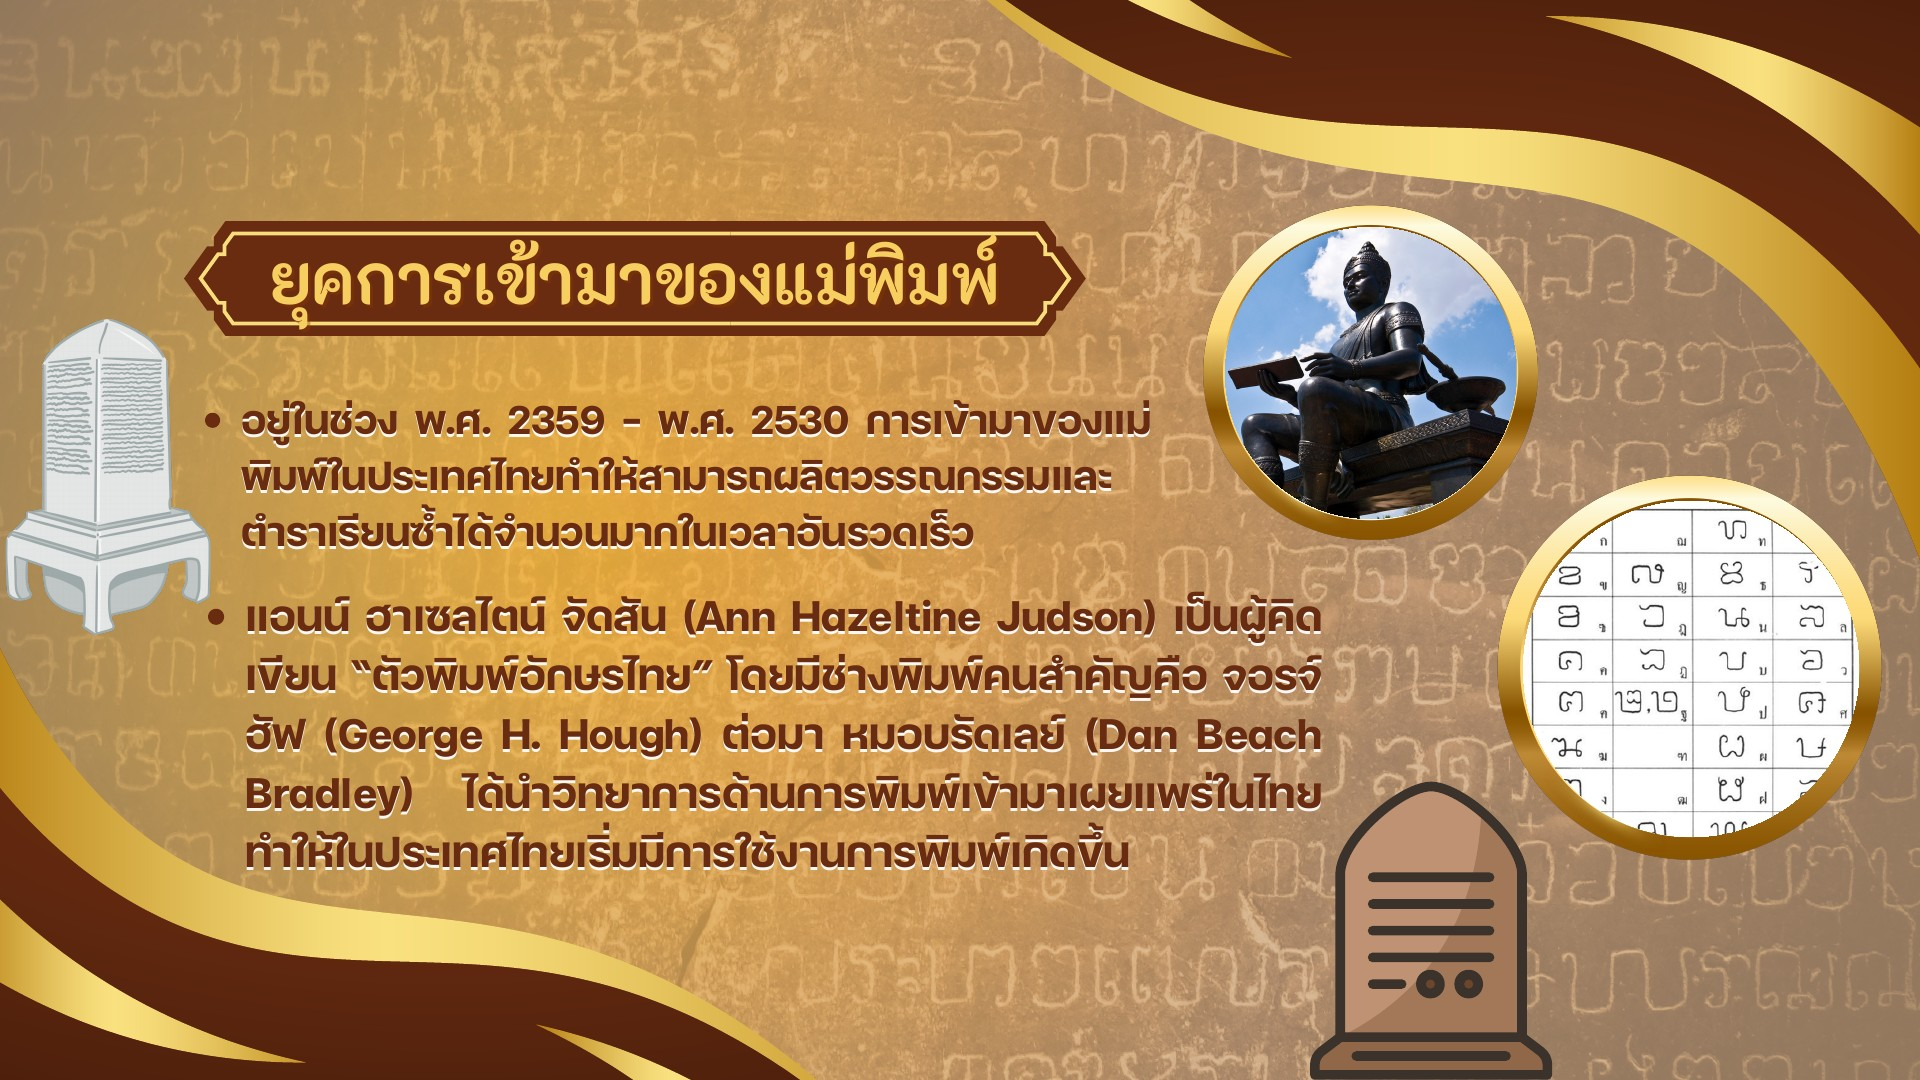
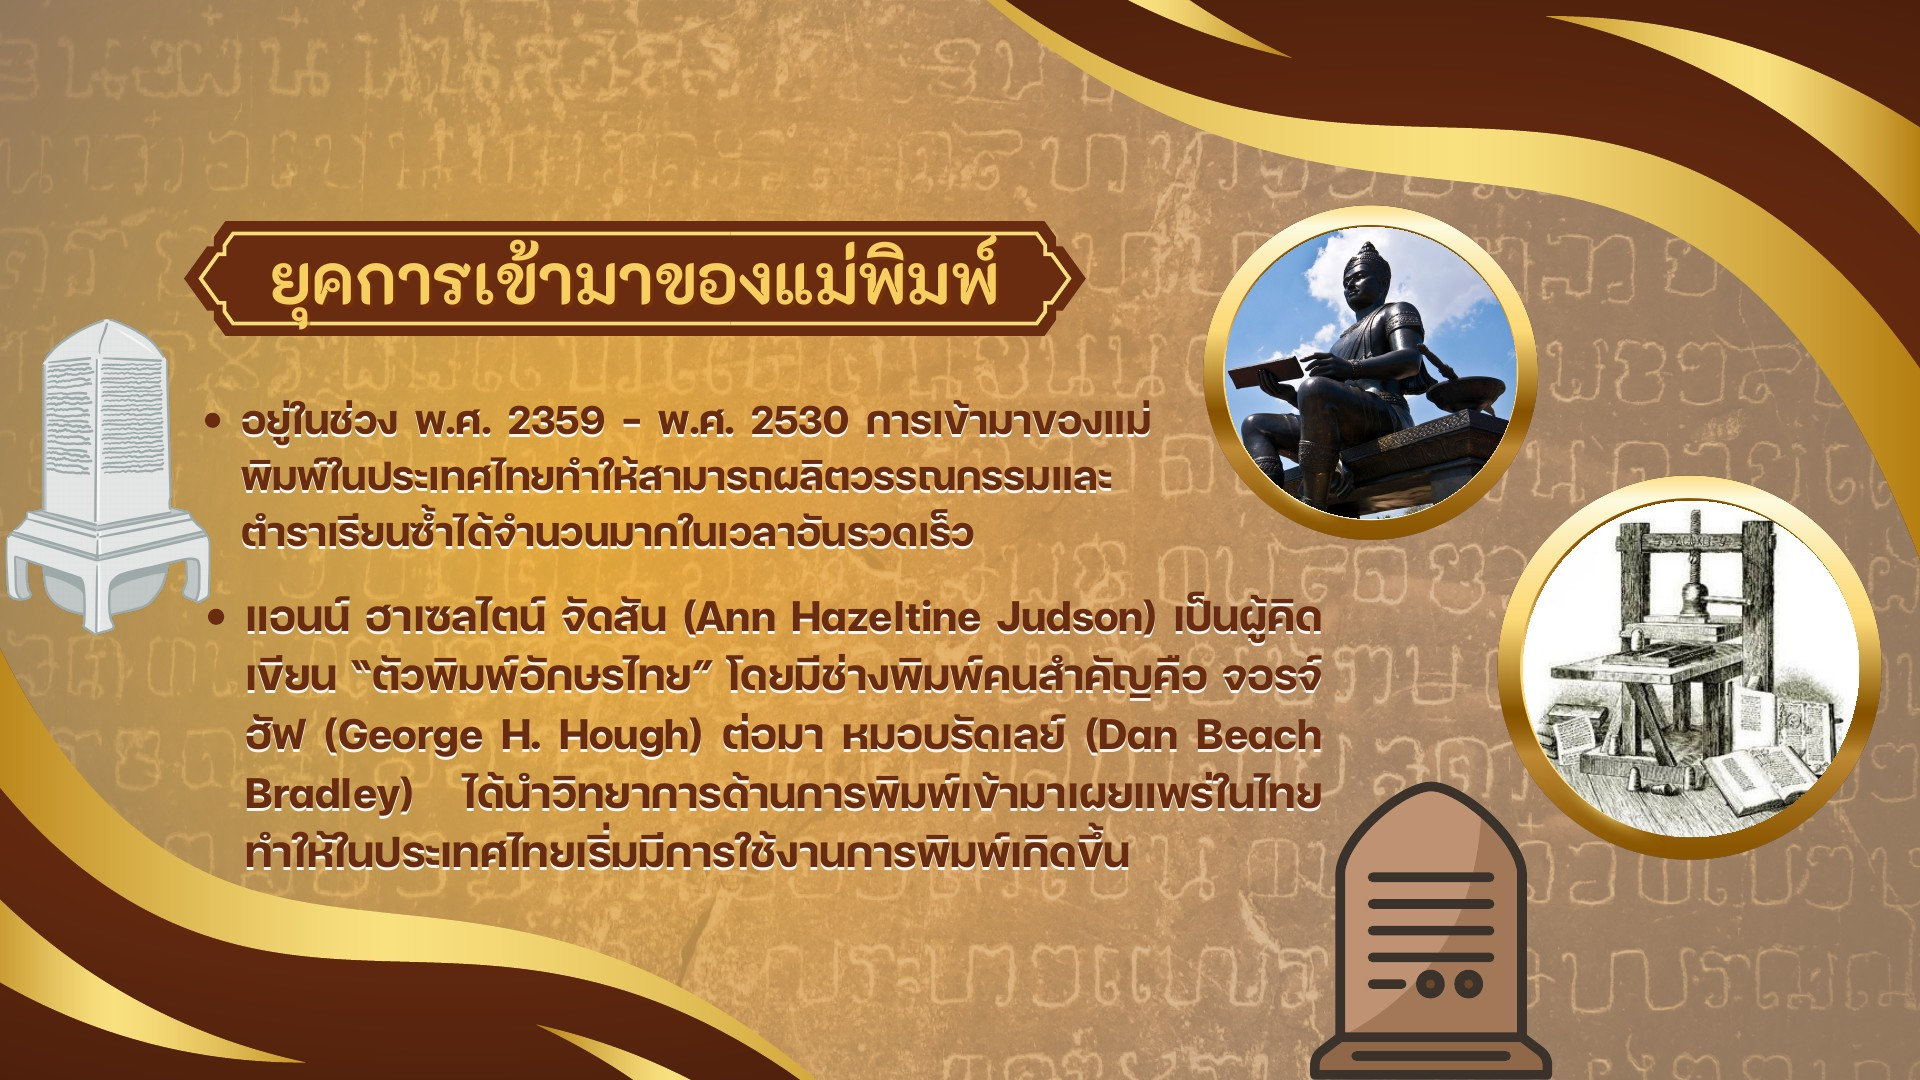
adding slideshows

Changed region(s): [[0.7812, 0.4583, 0.9688, 0.7944]]

diff --git a/my-app/src/learning.js b/my-app/src/learning.js
@@ -1,13 +1,10 @@
+import { thaiLetterSlides } from './thaiLetterSlides.js'
 import { thaiHistorySlides } from './thaiHistorySlides.js'
 
 // Quiz answers use the zero-based correct option index.
 export const levels = [
   { id: 'discover', type: 'slideshow', title: 'ความเป็นมาของภาษาไทย,ผู้ที่สร้างและส่งเสิรมภาษาไทย', description: 'เรียนรู้ผ่านสไลด์เรื่องพัฒนาการและผู้ส่งเสริมภาษาไทย', difficulty: 'ขั้นต้น', color: 'red', icon: 'book', xp: 100, badge: 'ผู้สืบสานภาษา', slides: thaiHistorySlides },
-  { id: 'practice', title: 'ฝึกคิด พินิจความ', description: 'ฝึกฝนและทบทวนให้เข้าใจยิ่งขึ้น', difficulty: 'ขั้นกลาง', color: 'gold', icon: 'mountain', xp: 200, badge: 'ผู้หมั่นฝึกฝน', questions: [
-    { prompt: 'วิธีใดช่วยตรวจสอบความเข้าใจของตนเอง?', options: ['คัดลอกคำตอบ', 'ลองแก้โจทย์ด้วยตนเอง', 'อ่านเฉพาะหัวข้อ'], answer: 1, explanation: 'การลองทำด้วยตนเองช่วยให้รู้ว่าเข้าใจส่วนใดแล้ว และส่วนใดยังต้องฝึกฝน' },
-    { prompt: 'เมื่อแก้โจทย์ไม่ได้ วิธีใดช่วยได้?', options: ['แบ่งโจทย์เป็นขั้นตอนย่อย ๆ', 'ไม่อ่านคำแนะนำทั้งหมด', 'เดาคำตอบโดยไม่คิด'], answer: 0, explanation: 'การแบ่งเป็นขั้นตอนย่อยช่วยให้ค่อย ๆ ทำความเข้าใจและแก้โจทย์ที่ยากได้' },
-    { prompt: 'วิธีใดช่วยให้การทบทวนเกิดประโยชน์?', options: ['หลีกเลี่ยงข้อที่ยาก', 'ทบทวนเพียงปีละครั้ง', 'กลับมาทบทวนเป็นระยะ'], answer: 2, explanation: 'การกลับมาทบทวนเป็นระยะช่วยเสริมความจำและความเข้าใจให้มั่นคง' },
-  ] },
+  { id: 'practice', type: 'slideshow', title: 'ลักษณะตัวอักษรไทยในอดีตกับปัจจุบัน,แนวทางการอณุรักษ์ตัวอักษรไทย', description: 'เปรียบเทียบอักษรไทยและเรียนรู้แนวทางการอนุรักษ์', difficulty: 'ขั้นกลาง', color: 'gold', icon: 'book', xp: 200, badge: 'ผู้หมั่นฝึกฝน', slides: thaiLetterSlides },
   { id: 'master', title: 'ต่อยอดสู่ปัญญา', description: 'ประยุกต์ความรู้และสะท้อนสิ่งที่ได้เรียน', difficulty: 'ขั้นสูง', color: 'green', icon: 'trophy', xp: 300, badge: 'ผู้รอบรู้', questions: [
     { prompt: 'จะทดสอบความเข้าใจอย่างลึกซึ้งได้อย่างไร?', options: ['นำความรู้ไปใช้ในสถานการณ์ใหม่', 'อ่านชื่อเรื่องซ้ำ ๆ', 'ข้ามคำอธิบาย'], answer: 0, explanation: 'การนำความรู้ไปใช้ในสถานการณ์ใหม่ช่วยทดสอบว่าเราเข้าใจและประยุกต์ใช้ได้จริง' },
     { prompt: 'คำอธิบายที่ชัดเจนควรมีสิ่งใด?', options: ['เฉพาะคำตอบสุดท้าย', 'เหตุผลที่นำไปสู่คำตอบ', 'คำยาว ๆ ให้มากที่สุด'], answer: 1, explanation: 'การอธิบายเหตุผลทำให้ผู้อื่นเข้าใจว่าเราได้ข้อสรุปนั้นมาอย่างไร' },

diff --git a/my-app/src/App.jsx b/my-app/src/App.jsx
@@ -40,13 +40,16 @@ function Lotus({ className = '' }) {
 }
 
 export default function App() {
-  const [progress, setProgress] = useState(() => saved(progressStorageKey,
-    migrateLegacyProgress(saved('studyquest-progress', [], Array.isArray), levels),
-    value => isValidProgress(value, levels)))
+  const [progress, setProgress] = useState(() => {
+    const previous = saved('rianthai-progress-v2', null, Array.isArray)
+    return saved(progressStorageKey,
+      migrateLegacyProgress(previous ?? saved('studyquest-progress', [], Array.isArray), levels, previous ? 2 : 1),
+      value => isValidProgress(value, levels))
+  })
   const [topics, setTopics] = useState(() => {
     const validTopics = value => Array.isArray(value) && value.length === levels.length && value.every(topic => typeof topic === 'string')
-    const legacyTopics = saved('studyquest-topics', levels.map(() => ''), validTopics)
-    return saved(topicsStorageKey, legacyTopics.map((topic, i) => i === 0 ? '' : topic), validTopics)
+    const legacyTopics = saved('rianthai-topics-v2', saved('studyquest-topics', levels.map(() => ''), validTopics), validTopics)
+    return saved(topicsStorageKey, legacyTopics.map((topic, i) => i === 1 ? '' : topic), validTopics)
   })
   const [tab, setTab] = useState('dashboard')
   const [game, setGame] = useState(null)
@@ -144,7 +147,7 @@ export default function App() {
       }}><div className="eyebrow">สำรับบทเรียนของคุณ</div><h2>ตั้งชื่อบทเรียน</h2><p>ปรับชื่อบทเรียนได้ตามต้องการ โดยเนื้อหาในแต่ละบทยังคงเดิม</p>{levels.map((level, i) => <label className="topic-field" key={level.id}>บทที่ {thaiNumber(i + 1)} · {level.title}<input name={`topic-${i}`} defaultValue={topics[i]} maxLength={80} placeholder={level.title} /></label>)}<button className="primary-button dialog-submit" type="submit"><Icon name="check" size={18} />บันทึกชื่อบทเรียน</button></form>}
       {game && (() => {
         const level = levels[game.level]
-        if (level.type === 'slideshow') return <SlideLesson key={level.id} level={level} title={topics[game.level] || level.title} onComplete={() => setProgress(previous => previous.map((score, i) => i === game.level ? completionTarget(level) : score))} onContinue={() => start(game.level + 1)} onClose={close} />
+        if (level.type === 'slideshow') return <SlideLesson key={level.id} level={level} chapter={game.level + 1} title={topics[game.level] || level.title} onComplete={() => setProgress(previous => previous.map((score, i) => i === game.level ? completionTarget(level) : score))} onContinue={() => start(game.level + 1)} onClose={close} />
         const question = level.questions[game.question]
         const totalQuestions = level.questions.length
         const passed = game.correct === totalQuestions

diff --git a/my-app/src/learningProgress.test.js b/my-app/src/learningProgress.test.js
@@ -4,28 +4,37 @@ import { existsSync } from 'node:fs'
 import { levels } from './learning.js'
 import { completionTarget, isValidProgress, migrateLegacyProgress } from './learningProgress.js'
 
-test('the first lesson uses all sixteen supplied slides in order', () => {
+test('the first lesson uses all fifteen supplied slides in order', () => {
   const lesson = levels[0]
   assert.equal(lesson.type, 'slideshow')
   assert.equal(lesson.questions, undefined)
-  assert.equal(lesson.slides.length, 16)
+  assert.equal(lesson.slides.length, 15)
   lesson.slides.forEach((slide, index) => {
-    assert.ok(slide.image.endsWith(`slide-${String(index + 1).padStart(2, '0')}.jpg`))
-    assert.ok(existsSync(new URL(`../public${slide.image}`, import.meta.url)))
+    const imagePath = slide.image.split('?')[0]
+    assert.ok(imagePath.endsWith(`slide-${String(index + 1).padStart(2, '0')}.jpg`))
+    assert.ok(existsSync(new URL(`../public${imagePath}`, import.meta.url)))
   })
 })
 
 test('completed legacy lessons and quiz scores survive the slide replacement', () => {
-  assert.deepEqual(migrateLegacyProgress([8, 3, 2], levels), [1, 3, 2])
-  assert.deepEqual(migrateLegacyProgress([7, 2, 0], levels), [0, 2, 0])
-  assert.deepEqual(migrateLegacyProgress([undefined, 2, 99], levels), [0, 2, 0])
+  assert.deepEqual(migrateLegacyProgress([8, 3, 2], levels), [1, 1, 2])
+  assert.deepEqual(migrateLegacyProgress([7, 2, 0], levels), [0, 0, 0])
+  assert.deepEqual(migrateLegacyProgress([undefined, 2, 99], levels), [0, 0, 0])
   assert.deepEqual(migrateLegacyProgress(null, levels), [0, 0, 0])
 })
 
 test('slide completion is independent of quiz answer counts', () => {
-  assert.deepEqual(levels.map(completionTarget), [1, 3, 3])
-  assert.equal(isValidProgress([1, 3, 0], levels), true)
+  assert.deepEqual(levels.map(completionTarget), [1, 1, 3])
+  assert.equal(isValidProgress([1, 1, 0], levels), true)
   for (const invalid of [[8, 0, 0], [16, 0, 0], [1, 4, 0], [1, -1, 0], [1, 1.5, 0], [1], null]) {
     assert.equal(isValidProgress(invalid, levels), false)
   }
+})
+
+ test('second slideshow has fifteen assets and preserves completed v2 lessons', () => {
+  assert.equal(levels[1].slides.length, 15)
+  assert.equal(levels[1].questions, undefined)
+  for (const slide of levels[1].slides) assert.ok(existsSync(new URL(`../public${slide.image}`, import.meta.url)))
+  assert.deepEqual(migrateLegacyProgress([1, 3, 2], levels, 2), [1, 1, 2])
+  assert.deepEqual(migrateLegacyProgress([1, 1, 2], levels, 2), [1, 0, 2])
 })

diff --git a/my-app/src/SlideLesson.jsx b/my-app/src/SlideLesson.jsx
@@ -2,7 +2,7 @@ import { useState } from 'react'
 import { thaiNumber } from './format'
 import './SlideLesson.css'
 
-export default function SlideLesson({ level, title, onComplete, onContinue, onClose }) {
+export default function SlideLesson({ level, chapter, title, onComplete, onContinue, onClose }) {
   const [page, setPage] = useState(0)
   const [loadedPage, setLoadedPage] = useState(null)
   const [visited, setVisited] = useState(() => new Set())
@@ -23,7 +23,7 @@ export default function SlideLesson({ level, title, onComplete, onContinue, onCl
   }
 
   return <section className="slide-lesson" aria-label="สไลด์บทเรียน">
-    <header className="slide-heading"><div className="eyebrow">บทที่ ๑ · สไลด์ประกอบการเรียนรู้</div><h2>{title}</h2></header>
+    <header className="slide-heading"><div className="eyebrow">บทที่ {thaiNumber(chapter)} · สไลด์ประกอบการเรียนรู้</div><h2>{title}</h2></header>
     <div className="slide-toolbar"><p aria-live="polite">หน้า {thaiNumber(page + 1)} จาก {thaiNumber(total)} · {slide.title}</p><button className="secondary-button" disabled={!ready} aria-pressed={zoomed} onClick={() => setZoomed(value => !value)}>{zoomed ? 'พอดีหน้าจอ' : 'ขยายสไลด์'}</button></div>
     <div className={`slide-stage ${zoomed ? 'is-zoomed' : ''}`} tabIndex={zoomed ? 0 : undefined} role="region" aria-label="ภาพสไลด์ เลื่อนดูภาพได้เมื่อขยาย" aria-busy={!ready && !failed}>
       {!ready && !failed && <p className="slide-loading" role="status">กำลังเปิดสไลด์…</p>}

diff --git a/my-app/src/thaiLetterSlides.js b/my-app/src/thaiLetterSlides.js
@@ -1,0 +1,19 @@
+const titles = [
+  "ลักษณะตัวอักษรไทยในอดีตกับปัจจุบัน",
+  "อักษรไทยและหลักฐานทางประวัติศาสตร์",
+  "สระและวรรณยุกต์ในอดีต",
+  "ตารางพยัญชนะในอดีตและปัจจุบัน",
+  "ตารางพยัญชนะในอดีตและปัจจุบัน (ต่อ)",
+  "ตารางสระในอดีตและปัจจุบัน",
+  "ตารางวรรณยุกต์และตัวเลข",
+  "แนวทางการอนุรักษ์ตัวอักษรไทย",
+  "อนุรักษ์ตัวอักษรไทยโบราณ (๑)",
+  "อนุรักษ์ตัวอักษรไทยโบราณ (๒)",
+  "ส่งเสริมการเรียนรู้ลายสือไทย",
+  "ส่งเสริมการเรียนรู้ลายสือไทย (ต่อ)",
+  "ส่งเสริมการใช้ตัวอักษรไทยบนสื่อออนไลน์",
+  "จัดนิทรรศการเกี่ยวกับตัวอักษรไทย",
+  "สื่อการเรียนรู้เกี่ยวกับตัวอักษรไทย"
+]
+
+export const thaiLetterSlides = titles.map((title, index) => ({ title, image: `${import.meta.env?.BASE_URL ?? '/'}lessons/thai-letters/slide-${String(index + 1).padStart(2, '0')}.jpg` }))

diff --git a/my-app/src/learningProgress.js b/my-app/src/learningProgress.js
@@ -1,5 +1,5 @@
-export const progressStorageKey = 'rianthai-progress-v2'
-export const topicsStorageKey = 'rianthai-topics-v2'
+export const progressStorageKey = 'rianthai-progress-v3'
+export const topicsStorageKey = 'rianthai-topics-v3'
 
 export const completionTarget = level => level.type === 'slideshow' ? 1 : level.questions.length
 
@@ -11,10 +11,11 @@ export const isValidProgress = (value, levels) => Array.isArray(value)
 
 // The original first lesson had eight questions. Preserve earned completion and
 // the other quiz scores when replacing that lesson with the slide presentation.
-export function migrateLegacyProgress(value, levels) {
+export function migrateLegacyProgress(value, levels, version = 1) {
   return levels.map((level, index) => {
     const score = Array.isArray(value) ? value[index] : undefined
-    if (index === 0 && level.type === 'slideshow') return score === 8 ? 1 : 0
+    if (index === 0 && level.type === 'slideshow') return score === (version === 2 ? 1 : 8) ? 1 : 0
+    if (index === 1 && level.type === 'slideshow') return score === 3 ? 1 : 0
     return isValidScore(score, completionTarget(level)) ? score : 0
   })
 }

diff --git a/my-app/src/thaiHistorySlides.js b/my-app/src/thaiHistorySlides.js
@@ -7,7 +7,6 @@ const titles = [
   'ยุคดิจิทัล',
   'ทบทวนความรู้เรื่องลายสือไทย',
   'เฉลยเรื่องลายสือไทย',
-  'ทบทวนความรู้เรื่องจินดามณี',
   'คำถามเรื่องผู้แต่งจินดามณี',
   'เฉลยเรื่องผู้แต่งจินดามณี',
   'ผู้ประดิษฐ์และผู้มีส่วนร่วมในการปรับปรุงตัวอักษรไทย',
@@ -19,5 +18,5 @@ const titles = [
 
 export const thaiHistorySlides = titles.map((title, index) => ({
   title,
-  image: `${import.meta.env?.BASE_URL ?? '/'}lessons/thai-history/slide-${String(index + 1).padStart(2, '0')}.jpg`,
+  image: `${import.meta.env?.BASE_URL ?? '/'}lessons/thai-history/slide-${String(index + 1).padStart(2, '0')}.jpg?v=2`,
 }))

diff --git a/my-app/src/SlideLesson.css b/my-app/src/SlideLesson.css
@@ -5,9 +5,9 @@
 .quest-dialog .slide-toolbar p { font-size: 14px; line-height: 1.8; }
 .slide-toolbar button { flex-shrink: 0; }
 .slide-stage { position: relative; background: #e6d7b7; border: 1px solid #b28d50; border-radius: 4px; overflow: auto; aspect-ratio: 16 / 9; }
-.slide-stage img { display: block; width: 100%; height: auto; }
+.slide-stage img { display: block; width: 100%; height: 100%; object-fit: contain; }
 .slide-stage.is-zoomed { aspect-ratio: auto; height: 56dvh; }
-.slide-stage.is-zoomed img { width: 1920px; max-width: none; }
+.slide-stage.is-zoomed img { width: 1920px; max-width: none; height: auto; }
 .slide-loading, .slide-error { position: absolute; inset: 0; display: flex; align-items: center; justify-content: center; background: #f3e7d0; padding: 20px; text-align: center; }
 .slide-error { flex-direction: column; gap: 14px; }
 .quest-dialog .slide-hint { font-size: 14px; margin-top: 8px; }

diff --git a/README.md b/README.md
@@ -26,7 +26,7 @@ Run these from `my-app`:
 
 ## Learning content
 
-The dashboard includes a 16-page Thai-history slideshow followed by two unlockable quizzes, points, badges, and progress saved in the browser. There is no account system or server database.
+The dashboard includes two 15-page slideshows followed by one unlockable quiz, points, badges, and progress saved in the browser. There is no account system or server database.
 
 Use **แก้ไขชื่อบทเรียน** to change lesson names in your browser. Lesson one displays the supplied PDF pages in order, with previous/next and zoom controls. Viewing every slide and choosing **เรียนจบบทนี้** completes the lesson and unlocks the next quiz. Existing earned completion and other quiz scores are migrated automatically.
 

diff --git a/my-app/public/lessons/thai-history/README.md b/my-app/public/lessons/thai-history/README.md
@@ -1,11 +1,11 @@
 # Thai history slideshow
 
-The 16 numbered images are rendered, in their original order, from the
-user-provided `ความเป็นมาของภาษาไทย.pdf` on 2026-11-22.
+The 15 numbered images are rendered, in their original order, from the
+user-provided `ความเป็นมาของภาษาไทย (2).pdf` on 2026-11-22.
 
 The original PDF is unchanged. All source pages, including review and answer
 slides, are retained. Poppler rendered the pages at 1920 × 1080 as progressive
-JPEGs (quality 90), totaling approximately 5.9 MB instead of the 81.6 MB PDF.
+JPEGs (quality 90), optimized for loading one page at a time.
 
 Page labels and image paths are in `src/thaiHistorySlides.js`. The interactive
 viewer is `src/SlideLesson.jsx`.

diff --git a/my-app/public/lessons/thai-letters/README.md b/my-app/public/lessons/thai-letters/README.md
@@ -1,0 +1,6 @@
+# Chapter two slides
+
+All 15 pages were rendered in original order from the user-provided
+`สีน้ำตาล สีเทา วินเทจ คอลลาจ ประวัติความเป(1).pdf` on 2026-11-22.
+Poppler rendered progressive JPEG images at 1920 × 1080, quality 90.
+The original PDF is unchanged. Metadata: `src/thaiLetterSlides.js`.
